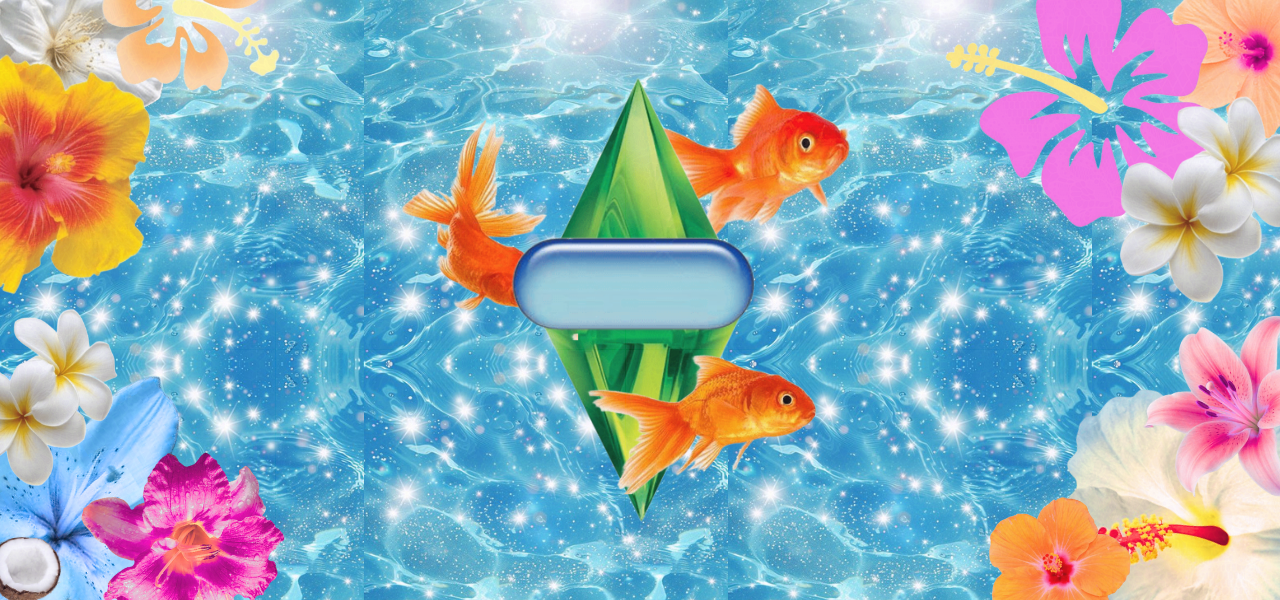
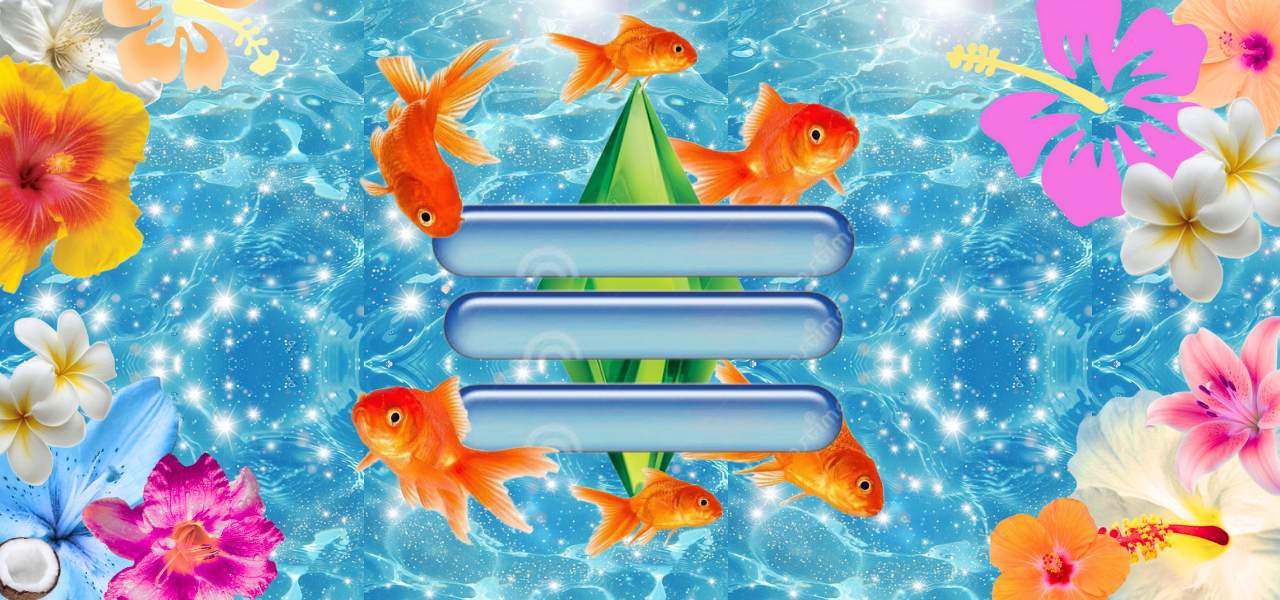
intento de botones #1-isa
intento de botones, en decadencia absoluta, intento desesperado

Changed region(s): [[0.25, 0.03, 0.7188, 0.93]]

diff --git a/game/cosas que me dan miedo/mytry-isa.py b/game/cosas que me dan miedo/mytry-isa.py
@@ -18,10 +18,21 @@ MENU_MOUSE_POS = pygame.mouse.get_pos()
 def start_screen():
     global running
     global current_screen
+
+    base_dir = os.path.dirname(__file__)
+    image_path = os.path.normpath(os.path.join(base_dir, "..", "assets", "FONDOS", "fondo principal.png"))
+
+    fondo = None
+    try:
+        fondo = pygame.image.load(image_path).convert()
+        fondo = pygame.transform.scale(fondo, (screen.get_width(), screen.get_height()))
+    except Exception as e:
+        print(f"No se pudo cargar la imagen de fondo: {image_path} -> {e}")
     
-    NUEVO_JUEGO = settings.BOTONES(None, (640, 250), "NUEVO JUEGO", font, PINK, LIGHT_GREEN)
-    CARGAR_JUEGO = settings.BOTONES(None, (640, 320), "CARGAR JUEGO", font, PINK, LIGHT_GREEN)
-    OPCIONES = settings.BOTONES(None, (640, 390), "OPCIONES", font, PINK, LIGHT_GREEN)
+    NUEVO_JUEGO = settings.BOTONES(None, (605, 240), "NUEVO JUEGO", font, PINK, LIGHT_GREEN)
+    CARGAR_JUEGO = settings.BOTONES(None, (605, 325), "CARGAR JUEGO", font, PINK, LIGHT_GREEN)
+    OPCIONES = settings.BOTONES(None, (605, 420), "OPCIONES", font, PINK, LIGHT_GREEN)
+    
     while running and current_screen == "menu":
         MENU_MOUSE_POS = pygame.mouse.get_pos()
         for event in pygame.event.get():
@@ -39,7 +50,7 @@ def start_screen():
                  break 
     
         # Render por frame
-        screen.fill(LIGHT_GREEN)
+        screen.blit(fondo, (0, 0))
 
         # Render del título
         title_screen = font.render("KISS KISS FALL IN LOVE", True, PINK)
@@ -53,14 +64,9 @@ def start_screen():
         OPCIONES.changeColor(MENU_MOUSE_POS)
         OPCIONES.update(screen)
 
-
-    
-
         pygame.display.flip()
 
-
 def nuevo_juego():
-    
     global running
     global current_screen
     
@@ -74,6 +80,43 @@ def nuevo_juego():
     overlay = pygame.transform.scale(overlay, (450, 600))
     overlay_rect = overlay.get_rect(center=(250, 295))
 
+    #imagen de ropa-N cantidad de ropa
+    N = "TORSO"
+    N_dir = os.path.join(base_dir, "..", "assets", "ROPA", N)
+    cloth_path =[]
+    try:
+        for archivo in os.listdir(N_dir):
+            if archivo.lower().endswith(".png"):
+                cloth_path.append(os.path.join(N_dir, archivo))
+    except Exception as e:
+        cloth_path = []
+
+    cloth_path.sort()  # Ordenar las rutas de las imágenes para consistencia
+    max_botones = 6
+    cloth_path= cloth_path[:max_botones]
+
+    #miniatura de la ropa
+    thumbs = []
+    thumb_rects =[]
+    posi_w, posi_h = 150, 150
+    gap =16
+    start_x= screen.get_width() - (gap + 100) * max_botones
+    start_y= 40
+    
+    for idx, p in enumerate(cloth_path):
+        surf= pygame.image.load(p).convert_alpha()
+        thumb= pygame.transform.smoothscale(surf, (posi_w, posi_h))
+        x = start_x + idx * (posi_w + gap)
+        y = start_y
+        rect = thumb.get_rect(topleft=(x, y))
+        thumbs.append(thumb)
+        thumb_rects.append(rect)
+
+
+
+    selection_cloth = None
+    selection_cloth_rect = None
+
     fondo = None
     try:
         fondo = pygame.image.load(image_path).convert()
@@ -81,27 +124,63 @@ def nuevo_juego():
     except Exception as e:
         print(f"No se pudo cargar la imagen de fondo: {image_path} -> {e}")
 
+
+
+
+
+
     while running and current_screen == "nuevo_juego":
         PLAY_MOUSE_POS = pygame.mouse.get_pos()
+        
+
+
 
         for event in pygame.event.get():
             if event.type == pygame.QUIT:
                 running = False
             
+            if event.type == pygame.MOUSEBUTTONDOWN and event.button ==1:
+                for idx, rect in enumerate(thumb_rects):
+                    if rect.collidepoint(event.pos):
+                        path = cloth_path[idx]
+                        print("Cargando:", path)
 
-            screen.blit(fondo, (0, 0))
-            screen.blit(overlay, overlay_rect)
-            pygame.display.flip()
+                        try:
+                            selection_cloth = pygame.image.load(path).convert_alpha()
+                            selection_cloth = pygame.transform.scale(selection_cloth, (450, 600))
+                            selection_cloth_rect = overlay_rect
+                        except Exception as e:
+                            print(f"No se pudo cargar la imagen de ropa: {path} -> {e}")
+            
+            
+       
+
+        
+        
+        screen.blit(fondo, (0, 0))
+        screen.blit(overlay, overlay_rect)
+
+ 
+        for thumb, rect in zip(thumbs, thumb_rects):
+            screen.blit(thumb, rect)
+            pygame.draw.rect(screen, (0, 0, 0), rect, 2)
+
+        if selection_cloth and selection_cloth_rect:
+            screen.blit(selection_cloth, selection_cloth_rect)
+        
+        pygame.display.flip()
 
     
-
+        
         for event in pygame.event.get():
-            if event.type == pygame.QUIT:
-                running = False
-            elif event.type == pygame.KEYDOWN:
-                if event.key == pygame.K_ESCAPE:
-                    current_screen = "menu"
-                    break
+                    if event.type == pygame.QUIT:
+                        running = False
+                    elif event.type == pygame.KEYDOWN:
+                        if event.key == pygame.K_ESCAPE:
+                            current_screen = "menu"
+                            break
+
+
 
     fondo = None
     try:
@@ -110,12 +189,9 @@ def nuevo_juego():
     except Exception as e:
         print(f"No se pudo cargar la imagen de fondo: {image_path} -> {e}")
 
-
         pygame.display.flip()
+       
         
-
-
-
 def cargar_juego():
     while running and current_screen == "cargar_juego":
         LOAD_MOUSE_POS = pygame.mouse.get_pos()
@@ -129,7 +205,6 @@ def opciones():
         screen.blit(font.render("opciones", True, WHITE), (500,300))
 
         pygame.display.flip()
-
 
 if __name__ == '__main__':
     while running:

diff --git a/game/cosas que me dan miedo/settings/settings.py b/game/cosas que me dan miedo/settings/settings.py
@@ -15,9 +15,9 @@ font_path = os.path.normpath(os.path.join(
 	os.path.dirname(__file__), '..', '..', 'assets', 'daydream_3', 'Daydream DEMO.otf'
 ))
 try:
-	font = pygame.font.Font(font_path, 36)
+	font = pygame.font.Font(font_path, 29)
 except Exception:
-	font = pygame.font.SysFont(None, 36)
+	font = pygame.font.SysFont(None, 29)
 
 def guardar_partida(self, data, juego_nuevo):
     import pantalla_principal
